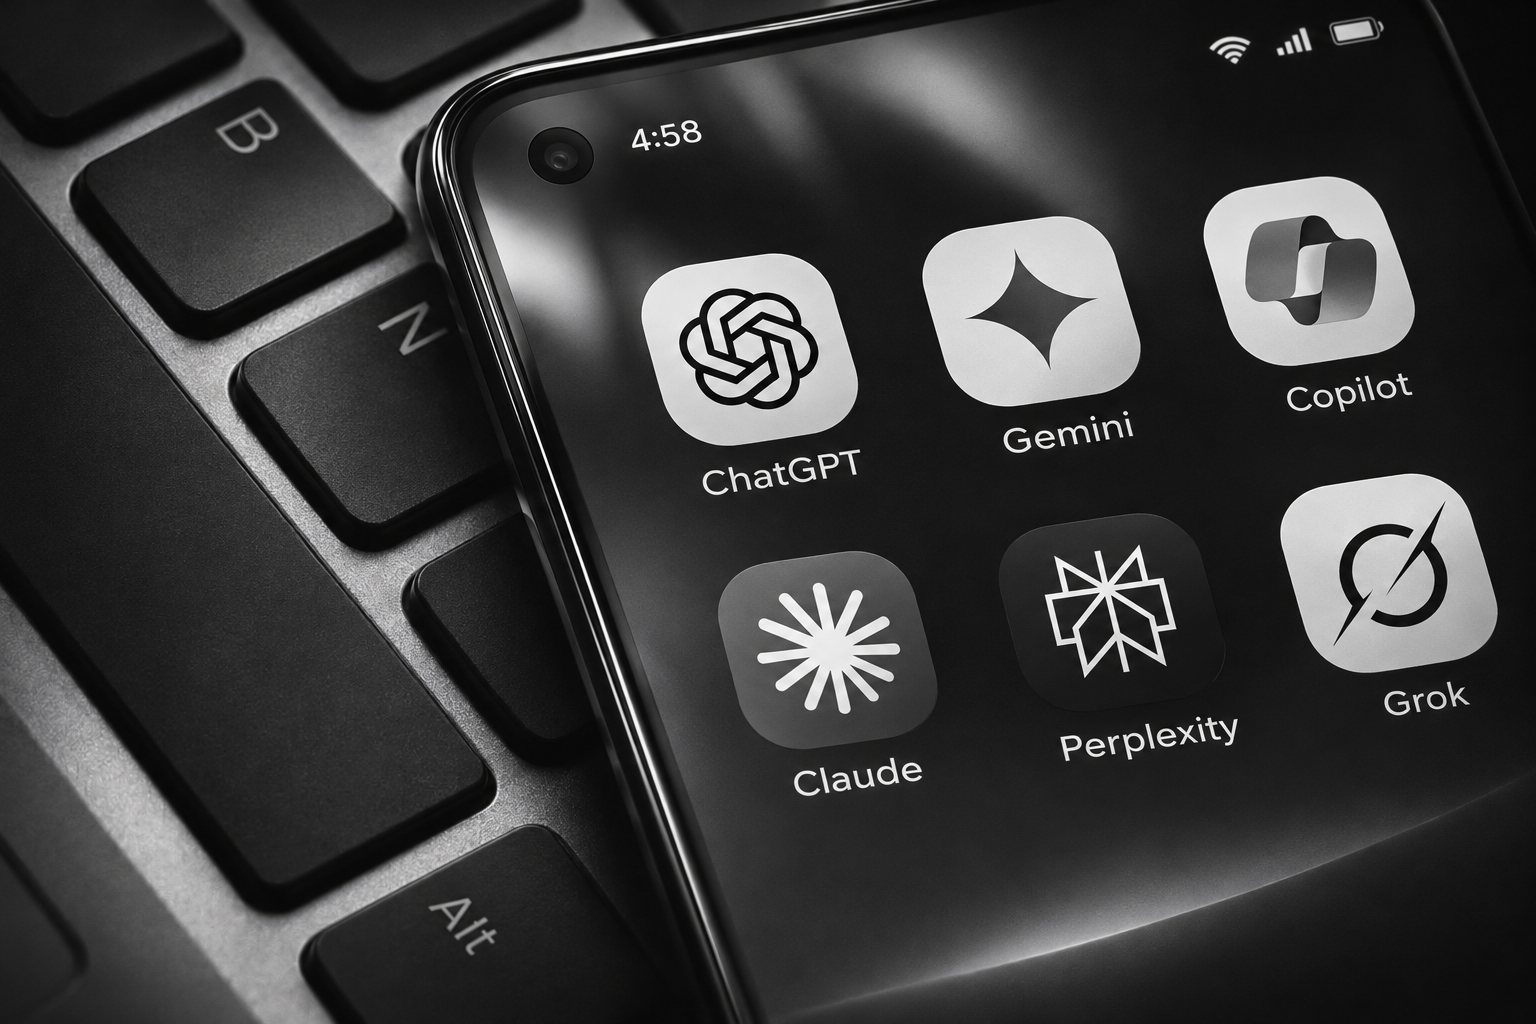
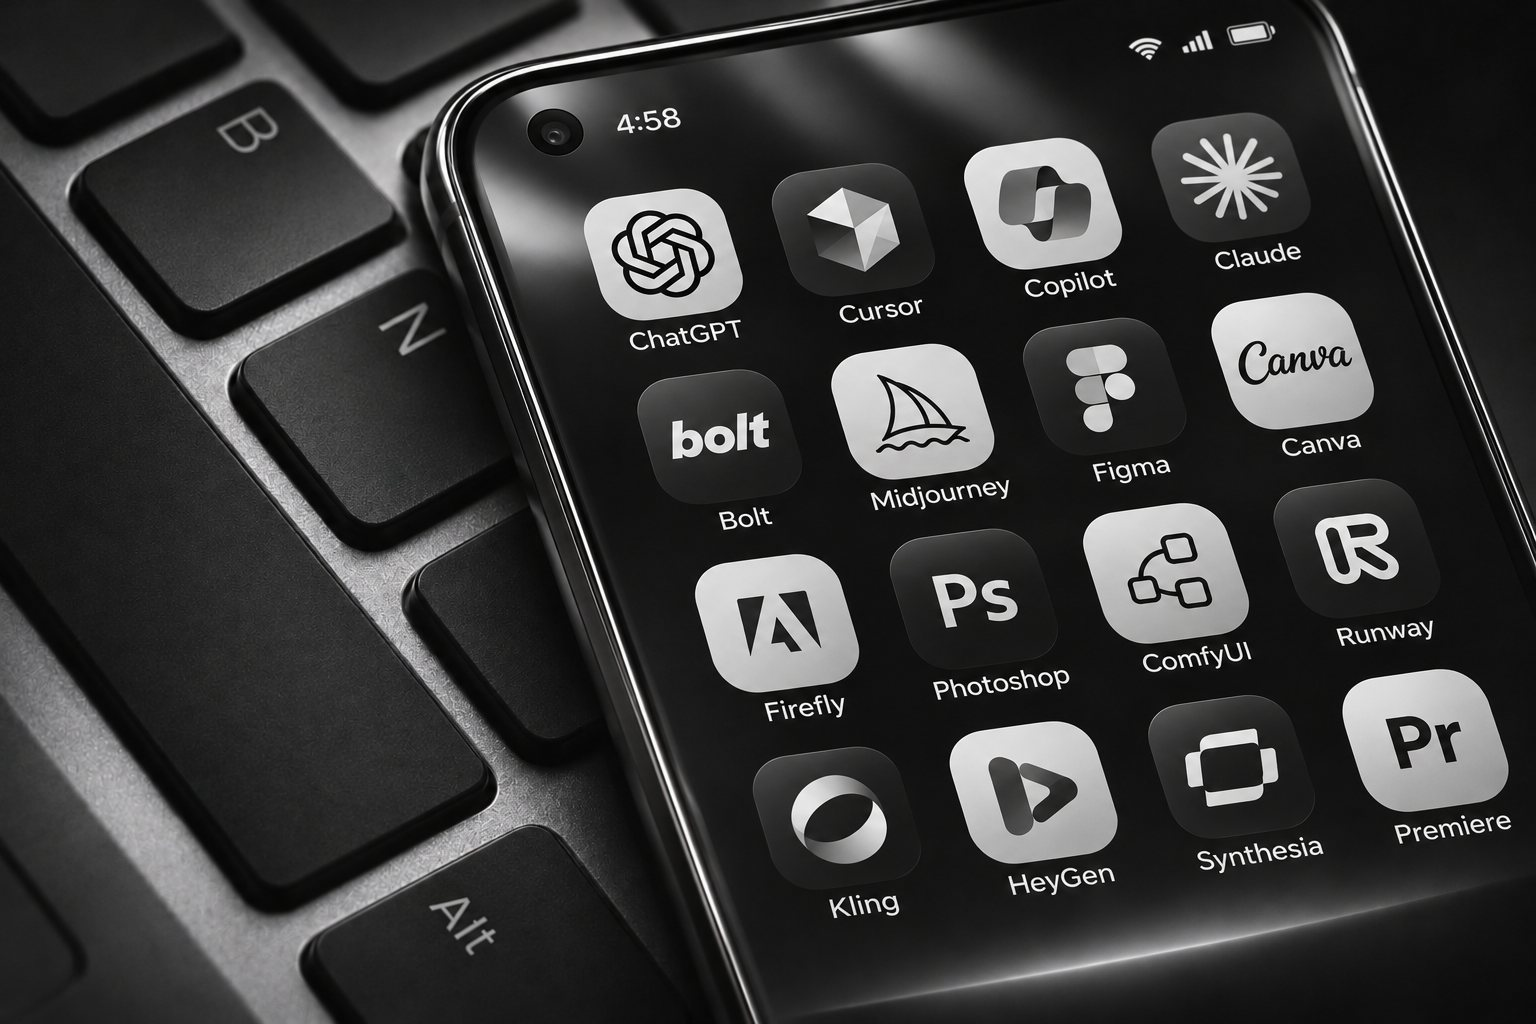
KI-Box: neues Bild mit KI- und Kreativ-Apps
Claude-Session: https://claude.ai/code/session_01BjkEN2Gdq6Ygi9Db6ym7yL

diff --git a/site/index.html b/site/index.html
@@ -573,7 +573,7 @@ input,textarea{border:0}
       </div>
       <div class="nk-quote">
         <div class="nk-qtxt"><p class="nk-q">Ein Logo aus der KI? Ein Flyer in fünf Minuten?</p><p>Das geht, und viele haben es schon ausprobiert. Aber gute Werbung entsteht nicht per Knopfdruck. Sie entsteht, wenn man weiß, was die KI wissen muss, was sie gut kann und wo sie Fehler macht. Next-Level-Werbung entsteht dort, wo Kreativität und künstliche Intelligenz gezielt zusammenarbeiten. Das erfordert Erfahrung und tiefes technisches Know-how. Beides bringen wir mit.</p></div>
-        <figure class="ai-fig nk-fig"><img src="img/ki-tools.jpg?v=202611060810" width="1536" height="1024" loading="lazy" alt="Smartphone mit KI-Apps auf einer Laptop-Tastatur"><span class="ai-cap"><b>KI</b>KI-generiert von Capeeshee</span></figure>
+        <figure class="ai-fig nk-fig"><img src="img/ki-tools.jpg?v=202611061112" width="1536" height="1024" loading="lazy" alt="Smartphone mit Apps von KI- und Kreativwerkzeugen wie ChatGPT, Claude, Midjourney, Figma, Photoshop und Runway auf einer Laptop-Tastatur"><span class="ai-cap"><b>KI</b>KI-generiert von Capeeshee</span></figure>
       </div>
       <h3 class="nk-sub">Wo wir KI bewusst einsetzen</h3>
       <div class="nk-grid"><div class="nk-tile"><span class="n">01</span><h4>Texte &amp; Inhalte</h4><p>Entwürfe für Werbetexte, Social-Media-Beiträge, Blogartikel und Newsletter – schnell erstellt und von uns auf den Punkt gebracht.</p></div><div class="nk-tile"><span class="n">02</span><h4>Bilder &amp; Videos</h4><p>Motive, Grafiken, Storyboards und kurze Clips für Kampagnen – so wie der Spot oben auf dieser Seite.</p></div><div class="nk-tile"><span class="n">03</span><h4>Bei Google gefunden werden</h4><p>Suchbegriffe recherchieren, Mitbewerber analysieren und Texte so aufbauen, dass Google und KI-Suchen sie verstehen.</p></div><div class="nk-tile"><span class="n">04</span><h4>Websites, Shops &amp; Apps</h4><p>KI unterstützt uns beim Programmieren und bei der Fehlersuche. So entstehen individuelle Lösungen schneller und günstiger.</p></div><div class="nk-tile"><span class="n">05</span><h4>Online-Werbung steuern</h4><p>Budgets und Zielgruppen bei Google- und Social-Media-Anzeigen laufend optimieren.</p></div><div class="nk-tile"><span class="n">06</span><h4>Zahlen &amp; Auswertungen</h4><p>Große Datenmengen auswerten, Trends erkennen und verständliche Berichte erstellen.</p></div></div>
